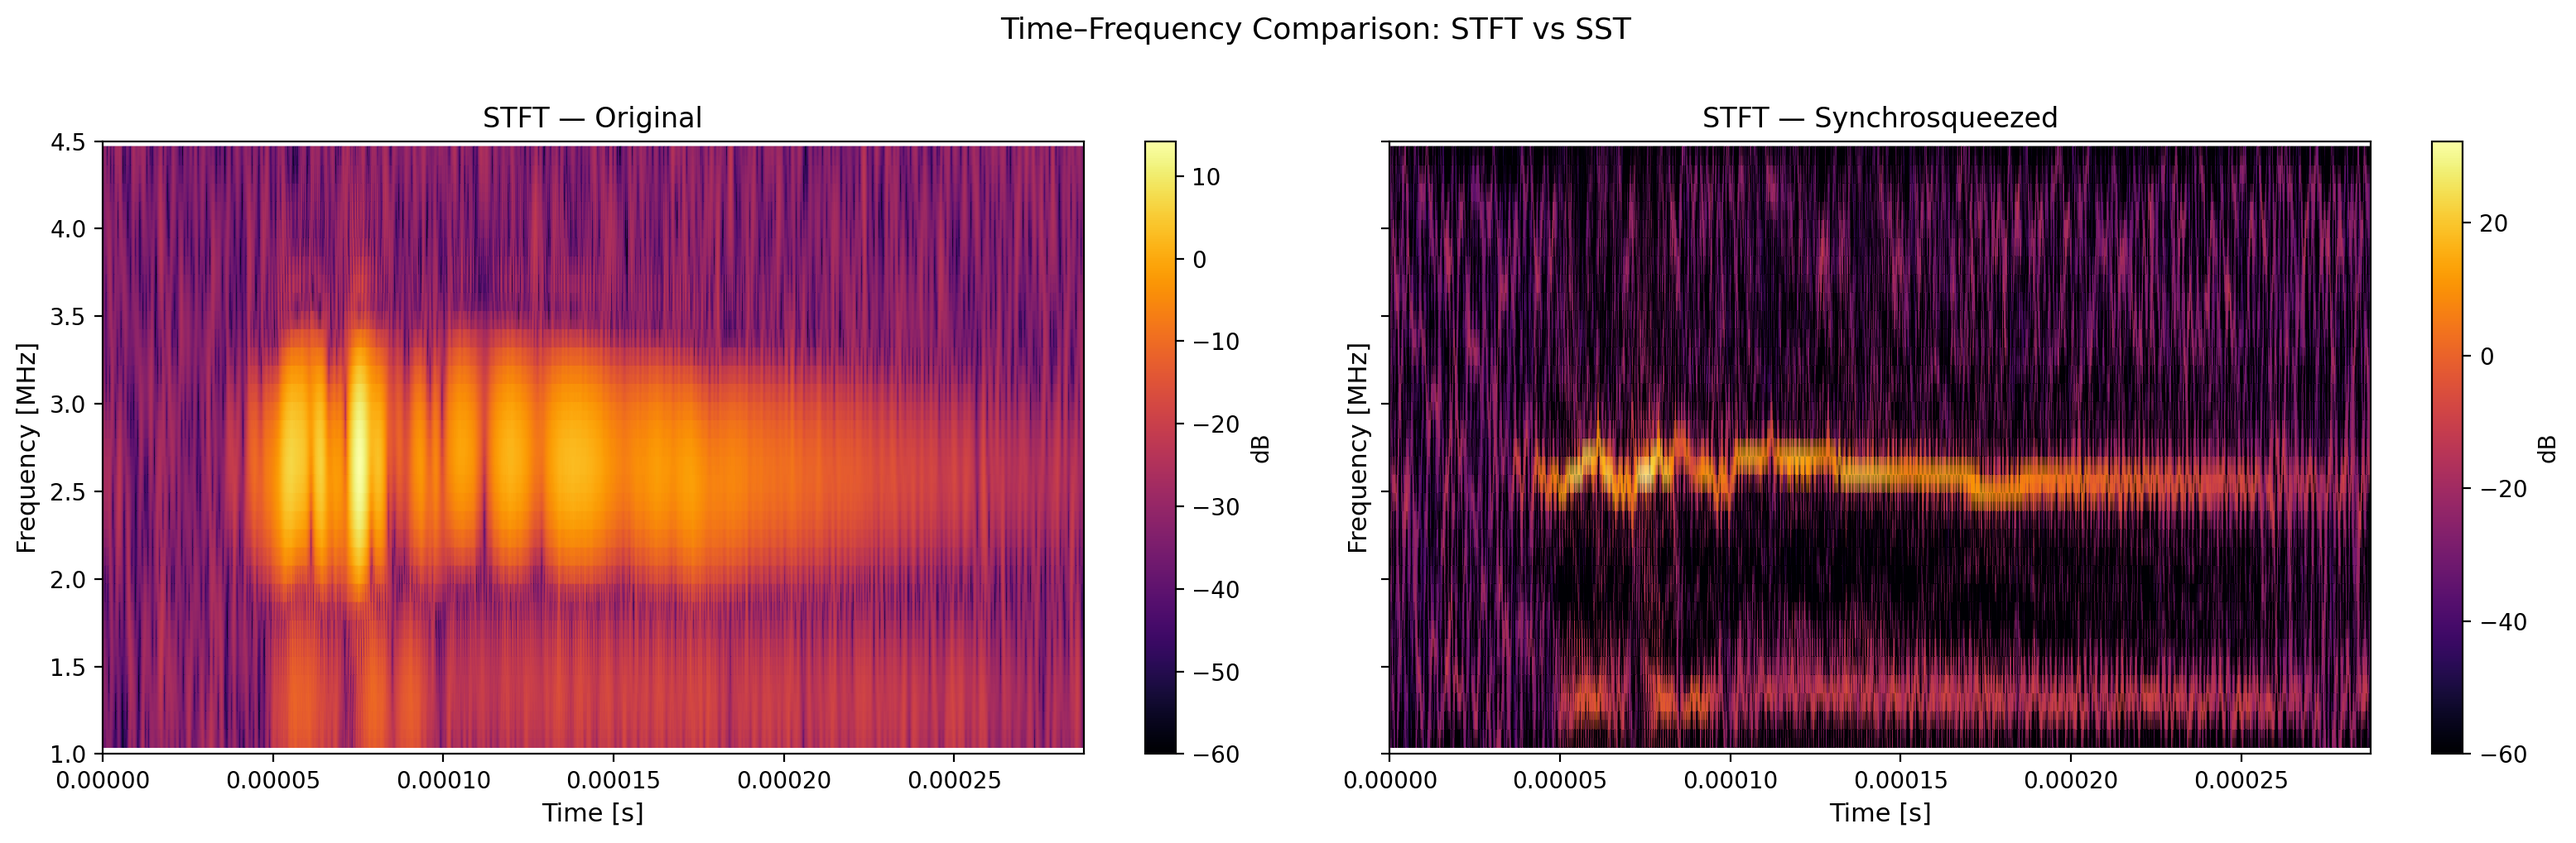
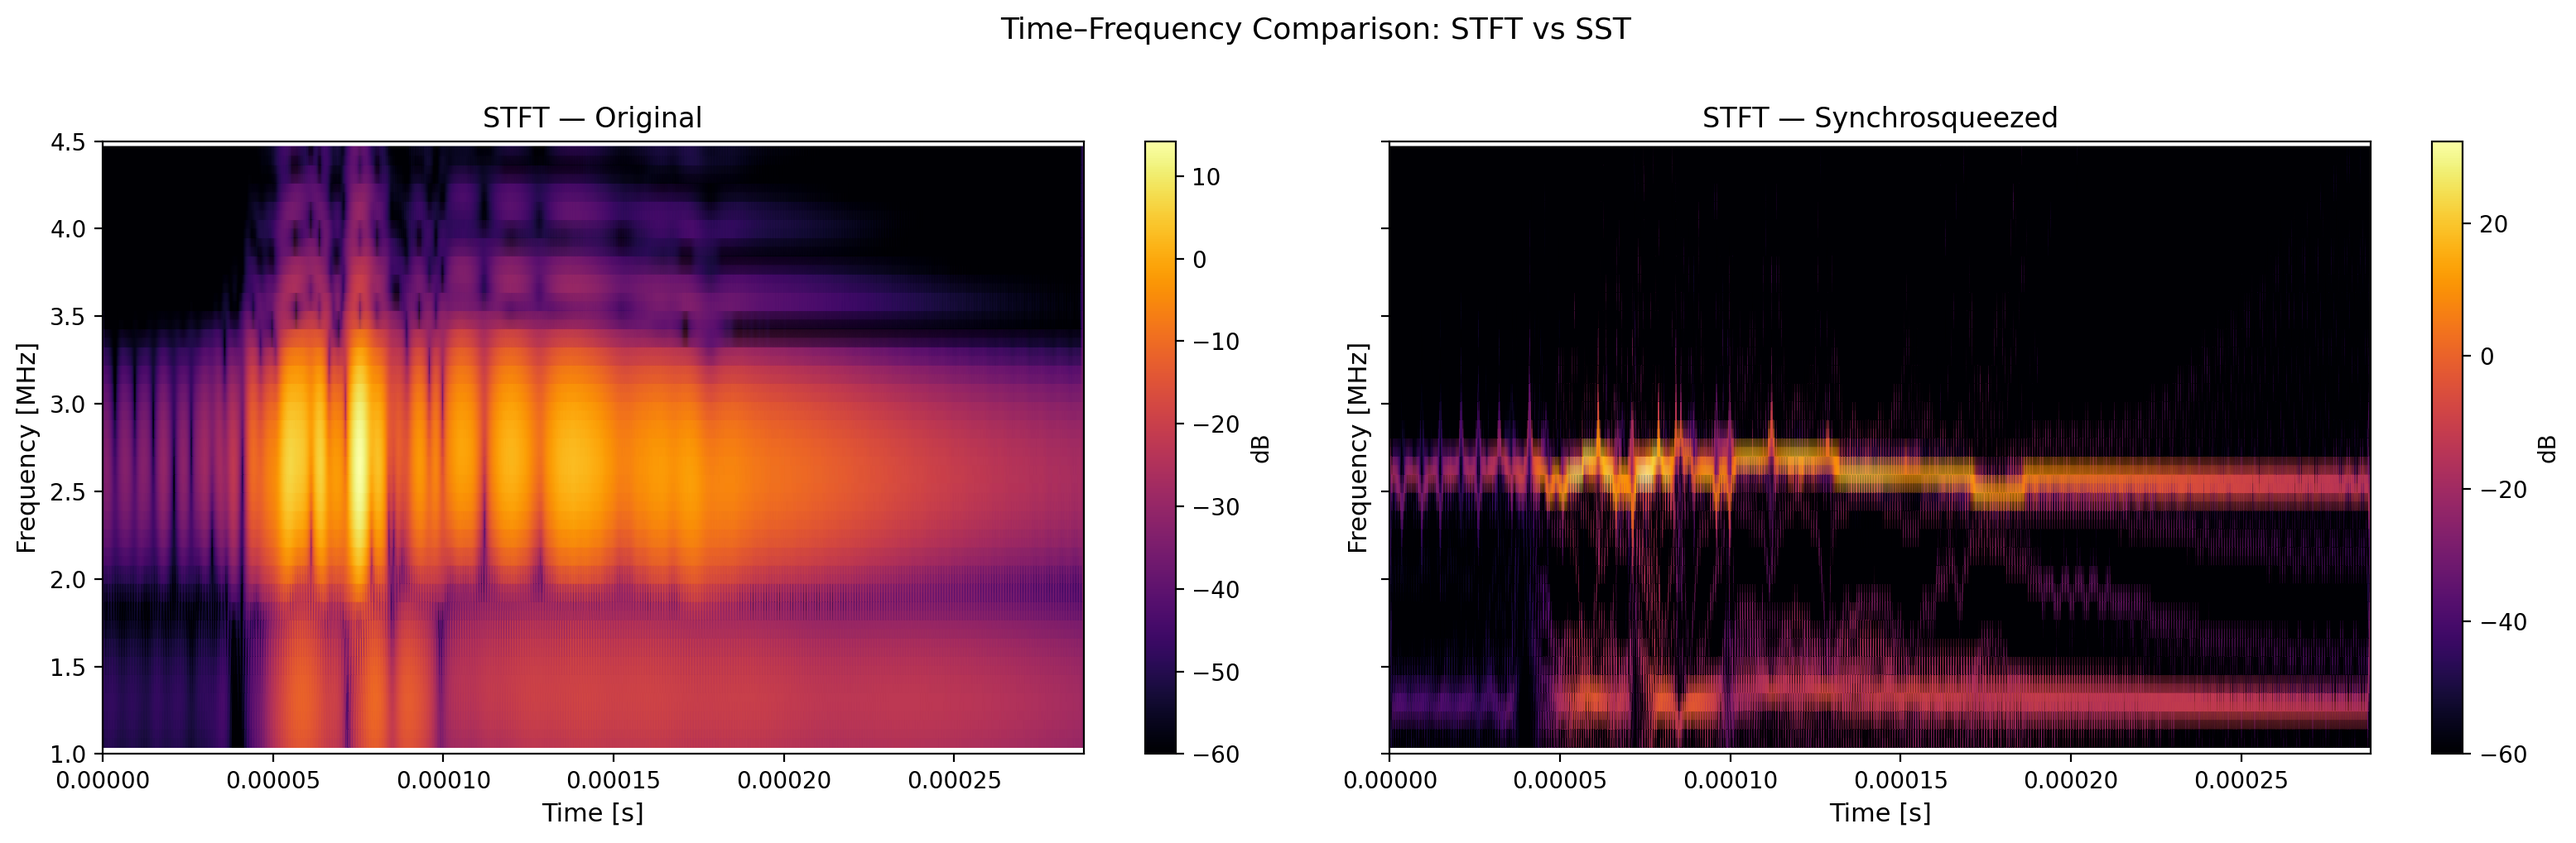
stft_only

Changed region(s): [[0.5301, 0.1521, 0.9354, 0.9127], [0.0312, 0.1521, 0.4365, 0.9127], [0.2806, 0.6084, 0.4365, 0.8822]]

diff --git a/hyperparameter_stft.py b/hyperparameter_stft.py
@@ -1,15 +1,13 @@
 """
 ═══════════════════════════════════════════════════════════════════════════════
-  test_sst.py  — standalone SST evaluation script
+  hyperparameter_stft.py  — standalone STFT+SST evaluation based on hyperparameters
   ─────────────────────────────────────────────────
   Run from the project root (same folder as preprocess.py / decomp.py).
 
   What this script produces
   ─────────────────────────
   plots/sst_stft_comparison.png   — STFT original vs SST side-by-side
-  plots/sst_cwt_comparison.png    — CWT  original vs SST side-by-side
   plots/sst_stft_reconstruction.png — base + harmonic band recon (STFT)
-  plots/sst_cwt_reconstruction.png  — base + harmonic band recon (CWT)
 
   All parameters are grouped at the top — edit freely.
 ═══════════════════════════════════════════════════════════════════════════════
@@ -31,7 +29,7 @@ from transforms import SST_v2_processing
 # ═══════════════════════════════════════════════════════════════════════════
 
 # --- signal construction (mirrors despair.py) -------------------------------
-noise_level = 0.2      # 0 = clean, 1.5 = 150% noise
+noise_level = 0     # 0 = clean, 1.5 = 150% noise
 beta        = 9            # non-linearity parameter
 
 A1_mode = "S2 Propagated signal (nm)"   # base harmonic mode for β
@@ -67,9 +65,6 @@ band_min_base      = 1_100_000   # Hz
 band_max_base      = 1_500_000
 band_min_harmonic  = 2_300_000
 band_max_harmonic  = 2_900_000
-
-# --- CWT wavelet -----------------------------------------------------------
-wavelet = "cmor3.0-1.0"
 
 # --- STFT parameters (from blind-decomp stage 1) ---------------------------
 stft_win_len = 128     # samples
@@ -183,23 +178,6 @@ SST_v2_processing.plot_reconstruction(
     name="sst_stft_reconstruction",
 )
 
-
-# --- DEBUG ---
-import pywt as _pywt
-_t = t * 1e-6
-_dt = float(np.mean(np.diff(_t)))
-_fc = _pywt.central_frequency(wavelet)
-_freqs = np.linspace(f_min_analyse, f_max_analyse, n_freq)
-_scales = _fc / (_freqs * _dt)
-_cwtmatr, _freqs_out = _pywt.cwt(signal, _scales, wavelet, sampling_period=_dt)
-
-_mask = (_freqs_out >= band_min_base) & (_freqs_out <= band_max_base)
-print("scales range:", _scales.min(), _scales.max())
-print("band scales:", _scales[_mask].min(), _scales[_mask].max(), "count:", _mask.sum())
-print("d_log_s_full:", np.mean(np.diff(np.log(_scales))))
-print("d_log_s_band:", np.mean(np.diff(np.log(_scales[_mask]))))
-print("gt_base max:", np.abs(gt_base).max())
-# --- END DEBUG ---
 # ═══════════════════════════════════════════════════════════════════════════
 #  QUICK SANITY CHECK  — print peak SNR of reconstructions
 # ═══════════════════════════════════════════════════════════════════════════
